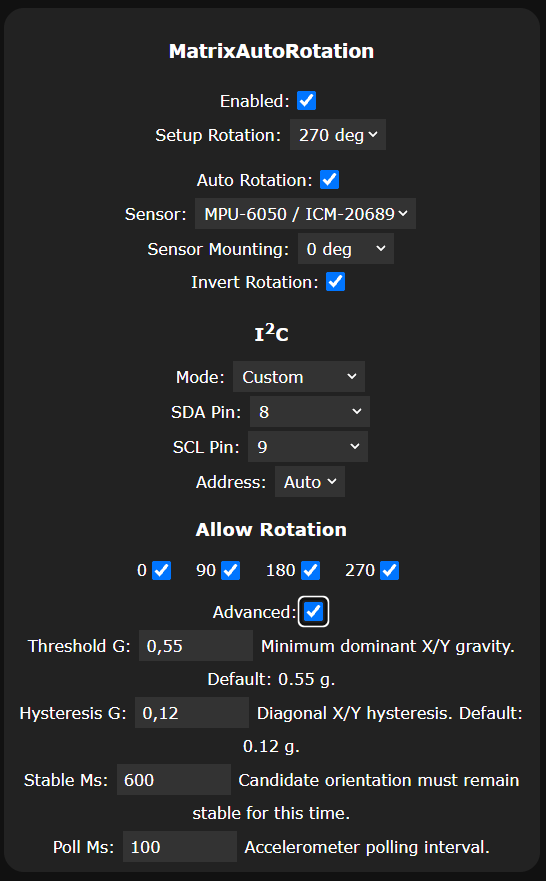
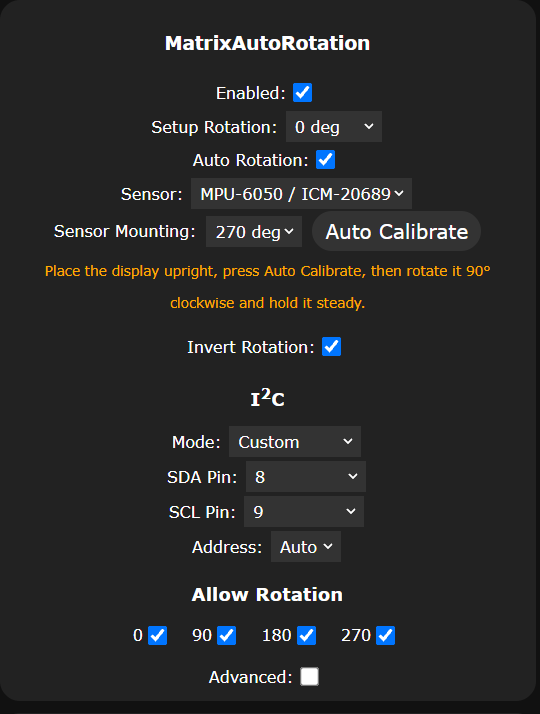
Added 'Auto Calibrate' button

diff --git a/matrix_auto_rotation.cpp b/matrix_auto_rotation.cpp
@@ -7,14 +7,14 @@
 #include "matrix_auto_rotation_sensor.h"
 
 // WLED Matrix Auto Rotation
-// v0.1.0-dev build 12
+// v0.1.0-dev build 13
 //
 // Design rule: the usermod never modifies effect/segment state. Rotation is
 // applied in handleOverlayDraw(), after WLED has composited the final logical
 // raster and immediately before WLED applies its own logical->physical ledmap.
 
 namespace {
-constexpr char MAR_VERSION[] = "0.1.0-dev-b012";
+constexpr char MAR_VERSION[] = "0.1.0-dev-b015";
 constexpr uint8_t I2C_MODE_MATRIXPORTAL = 0;
 constexpr uint8_t I2C_MODE_CUSTOM = 1;
 constexpr uint8_t I2C_MODE_SHARED = 4;
@@ -731,7 +731,20 @@ public:
       "T(N+'enabled','Enabled:');T(N+'setup-rotation','Setup Rotation:');T(N+'auto-rotation','Auto Rotation:');T(N+'sensor','Sensor:');T(N+'sensor-mounting','Sensor Mounting:');T(N+'invert-rotation','Invert Rotation:');"
       "T(N+'i2c:mode','Mode:');T(N+'i2c:SDA-pin','SDA Pin:');T(N+'i2c:SCL-pin','SCL Pin:');T(N+'i2c:address','Address:');"
       "T(N+'advanced','Advanced:');T(N+'advanced-settings:threshold-g','Threshold G:');T(N+'advanced-settings:hysteresis-g','Hysteresis G:');T(N+'advanced-settings:stable-ms','Stable Ms:');T(N+'advanced-settings:poll-ms','Poll Ms:');"
-      "let sr=W(N+'setup-rotation');if(sr)sr.style.marginBottom='12px';"
+      "let sm=W(N+'sensor-mounting'),ir=W(N+'invert-rotation'),calBtn=null,calHelp=null,calRun=false,calPending=false,calStable=false,calHwDirty=false,calBgRaw=-1,calBgSince=0;"
+      "if(sm&&ir){let p=sm.parentNode,g=cE('div'),left=cE('div'),act=cE('div'),sty=cE('style');g.className='mar-cal-grid';act.className='mar-cal-action';g.style.cssText='display:grid;grid-template-columns:minmax(0,1fr) 150px;align-items:center;column-gap:12px;margin:0 auto 4px;max-width:430px';left.style.cssText='min-width:0';act.style.cssText='display:flex;align-items:center;justify-content:center;height:100%';sm.style.cssText+=';margin:0 0 6px';ir.style.cssText+=';margin:0';p.insertBefore(g,sm);left.appendChild(sm);left.appendChild(ir);g.appendChild(left);g.appendChild(act);calBtn=cE('button');calBtn.type='button';calBtn.textContent='Auto Calibrate';calBtn.disabled=true;calBtn.style.cssText='width:auto;padding:5px 10px;margin:0;white-space:nowrap';act.appendChild(calBtn);calHelp=cE('div');calHelp.textContent='Place the display upright, press Auto Calibrate, then rotate it 90° clockwise and hold it steady.';calHelp.style.cssText='font-size:.85em;color:#fa0;text-align:center;margin:6px 8px 12px';g.insertAdjacentElement('afterend',calHelp);sty.textContent='@media(max-width:480px){.mar-cal-grid{grid-template-columns:1fr!important;row-gap:8px}.mar-cal-action{min-height:36px}}';sec.appendChild(sty);}" 
+      "const UI=(j,k)=>j&&j.u&&j.u[k]&&j.u[k][0];"
+      "const V=r=>r==0||r==90||r==180||r==270;"
+      "const GV=(n,f)=>{let e=E(n),v=e?parseFloat(e.value):NaN;return Number.isFinite(v)?v:f;};"
+      "const RS=async()=>{try{let j=await fetch('/json/info',{cache:'no-store'}).then(r=>r.json()),sn=String(UI(j,'MAR sensor')||''),a=String(UI(j,'MAR acceleration')||''),m=a.match(/X\\s+(-?\\d+(?:\\.\\d+)?)\\s+Y\\s+(-?\\d+(?:\\.\\d+)?)/);if(!sn.includes('@ 0x')||!m)return{ready:false,raw:-1};let x=+m[1],y=+m[2],ax=Math.abs(x),ay=Math.abs(y),th=GV(N+'advanced-settings:threshold-g',.55),hy=GV(N+'advanced-settings:hysteresis-g',.12);if(Math.max(ax,ay)<th||Math.abs(ax-ay)<hy)return{ready:true,raw:-1};return{ready:true,raw:ax>=ay?(x>=0?90:270):(y>=0?0:180)};}catch(e){return{ready:false,raw:-1};}};"
+      "const SM=()=>Math.max(0,GV(N+'advanced-settings:stable-ms',600));"
+      "const HS=()=>[N+'sensor',N+'i2c:mode',N+'i2c:SDA-pin',N+'i2c:SCL-pin',N+'i2c:address'].map(n=>{let e=E(n);return e?(e.type=='checkbox'?(e.checked?1:0):e.value):'';}).join('|');"
+      "let hsig=HS();"
+      "const UB=()=>{if(calBtn)calBtn.disabled=calRun||calPending||calHwDirty||!calStable;};"
+      "const BG=async()=>{if(calRun||calPending)return;let s=await RS(),now=Date.now();if(s.ready&&V(s.raw)){if(s.raw!=calBgRaw){calBgRaw=s.raw;calBgSince=now;}calStable=(now-calBgSince)>=SM();}else{calBgRaw=-1;calBgSince=0;calStable=false;}UB();};"
+      "[N+'sensor',N+'i2c:mode',N+'i2c:SDA-pin',N+'i2c:SCL-pin',N+'i2c:address'].forEach(n=>{let e=E(n);if(e)e.addEventListener('change',()=>{calHwDirty=HS()!=hsig;calStable=false;calBgRaw=-1;calBgSince=0;UB();});});"
+      "if(calBtn)calBtn.addEventListener('click',async()=>{let first=await RS();if(calHwDirty||!first.ready||!V(first.raw)){calStable=false;UB();return;}calRun=true;UB();let start=first.raw,cand=-1,since=0,t0=Date.now();calHelp.textContent='Now rotate the display 90° clockwise and hold it steady…';let finish=(ok,msg)=>{calRun=false;if(ok)calPending=true;calHelp.textContent=msg;UB();};let timer=setInterval(async()=>{if(Date.now()-t0>15000){clearInterval(timer);finish(false,'Calibration timed out. Keep the display upright and try again.');return;}let s=await RS();if(!s.ready){clearInterval(timer);finish(false,'Calibration stopped: sensor is no longer available.');return;}let delta=V(s.raw)?((s.raw-start+360)%360):-1;if(delta!=90&&delta!=270){cand=-1;since=0;return;}if(s.raw!=cand){cand=s.raw;since=Date.now();return;}if(Date.now()-since<SM())return;clearInterval(timer);let inv=delta==270,me=E(N+'sensor-mounting'),ie=E(N+'invert-rotation');if(me)me.value=String(start);if(ie)ie.checked=inv;finish(true,'Calibration complete: Sensor Mounting '+start+'°, Invert Rotation '+(inv?'enabled':'disabled')+'. Press Save to apply.');},500);});"
+      "setInterval(BG,1000);setTimeout(BG,150);"
       "let heads=[...sec.querySelectorAll('p>u')];"
       "const H=t=>heads.find(u=>u.textContent.trim().toLowerCase()==t.toLowerCase());"
       "let ih=H('I2c');if(ih){ih.innerHTML='I<sup>2</sup>C';ih.style.cssText='font-weight:700;font-size:1.15em;text-decoration:none';ih.parentElement.style.margin='14px 0 8px';}"

diff --git a/docs/TEST-PLAN.md b/docs/TEST-PLAN.md
@@ -1,4 +1,6 @@
-# v0.1.0-dev-b012 validation plan
+# v0.1.0-dev-b015 validation plan
+
+Current status: b014 Auto Calibrate passed on the current ESP32-C3 + ICM-20689 inverted-face installation. b015 changes only the calibration-block layout.
 
 This plan covers current behavior only. Historical development-build migrations are regression-tested in code/config handling but are intentionally omitted from the user-facing test procedure.
 
@@ -7,14 +9,34 @@ This plan covers current behavior only. Historical development-build migrations 
 Verify:
 
 - normal field labels end with `:`;
-- `Invert Rotation:` appears below `Sensor Mounting:`;
+- `Sensor Mounting:` and `Invert Rotation:` occupy the left column of the calibration block;
+- the button is disabled until the configured sensor is detected and the current orientation is stable;
+- changing Sensor or I²C hardware fields without saving disables the button;
+- `Auto Calibrate` is vertically centered in the right column across those two rows;
+- the upright/90° clockwise instruction appears in orange below the complete calibration block;
 - `I²C` is shown as a section heading;
 - modes are `Matrix Portal`, `Shared`, `Custom`;
 - SDA/SCL/Address appear only for `Custom`;
 - `Advanced:` reveals Threshold G, Hysteresis G, Stable Ms and Poll Ms;
 - `Allow Rotation` displays 0 / 90 / 180 / 270 and prevents an empty allow mask.
 
-## 2. Matrix Portal S3 + LIS3DH regression
+## 2. Auto Calibrate
+
+With the sensor already detected and the display held upright:
+
+1. Wait until `Auto Calibrate` becomes enabled.
+2. Press it; no settings should change yet.
+3. Rotate the display exactly 90° clockwise and hold it steady.
+4. Verify the helper updates `Sensor Mounting` and `Invert Rotation` so the initial upright pose resolves to automatic rotation 0°; `Setup Rotation` must remain unchanged.
+5. Verify the success message asks the user to press the normal WLED Save button.
+6. Repeat with the sensor mounted on the opposite face; `Invert Rotation` should be selected automatically when required.
+7. Start again and do not rotate: after 15 seconds calibration must time out without changing `Sensor Mounting` or `Invert Rotation`.
+8. Disconnect the sensor during calibration: the operation must abort without changing settings.
+9. Change Sensor, I²C mode, SDA/SCL or address without saving: the button must remain disabled until the active hardware configuration matches the page again.
+
+Calibration is intentionally separate from future Sensor Auto Detect: it operates only on an already configured and detected sensor.
+
+## 3. Matrix Portal S3 + LIS3DH regression
 
 Configuration:
 
@@ -36,7 +58,7 @@ Expected:
 Also verify Setup Rotation at 90° composes with automatic rotation rather than replacing it.
 
 
-## 3. Invert Rotation
+## 4. Invert Rotation
 
 With `Setup Rotation = 0°`, `Sensor Mounting = 0°` and all orientations allowed:
 
@@ -49,7 +71,7 @@ With `Setup Rotation = 0°`, `Sensor Mounting = 0°` and all orientations allowe
 
 Verify that enabling/disabling `Invert Rotation` does not alter `Setup Rotation`; the effective rotation must remain `setup + auto (mod 360)`. Also verify persistence across Save + reboot.
 
-## 4. Detection stability
+## 5. Detection stability
 
 Using qualified defaults (0.55 g / 0.12 g / 600 ms / 100 ms):
 
@@ -60,7 +82,7 @@ Using qualified defaults (0.55 g / 0.12 g / 600 ms / 100 ms):
 5. Return upright: detection resumes normally.
 6. Disable one or more orientations and verify disallowed candidates are ignored.
 
-## 5. ICM-20689 on ESP32-C3
+## 6. ICM-20689 on ESP32-C3
 
 Known-qualified device:
 
@@ -74,7 +96,7 @@ Expected WLED Info:
 - non-zero live X/Y/Z values;
 - automatic rotation follows the same four-orientation behavior as LIS3DH after any required `Sensor Mounting` offset.
 
-## 6. Shared I²C coexistence on ESP32-C3
+## 7. Shared I²C coexistence on ESP32-C3
 
 Connect both sensors to the same physical SDA/SCL pair:
 
@@ -91,7 +113,7 @@ Expected:
 - MAR does not change bus pins or clock;
 - a late-initialized shared bus is recovered by MAR's periodic sensor-init retry.
 
-## 7. Custom I²C
+## 8. Custom I²C
 
 On a board/pin pair not already owned by WLED:
 
@@ -103,7 +125,7 @@ On a board/pin pair not already owned by WLED:
 
 On single-controller ESP32 targets, document that Custom rebinds the sole controller; use Shared instead when another component already owns the bus.
 
-## 8. Rectangular matrix guard
+## 9. Rectangular matrix guard
 
 For a non-square matrix:
 
@@ -112,7 +134,7 @@ For a non-square matrix:
 - WLED Info must report the unsupported rotation condition;
 - no crop, resize or geometry mutation is allowed.
 
-## 9. Diagnostics and error paths
+## 10. Diagnostics and error paths
 
 Verify meaningful status for:
 
@@ -124,7 +146,7 @@ Verify meaningful status for:
 
 A failure before `sensor.begin()` must never be displayed as sensor `OK`.
 
-## 10. Pending hardware qualification
+## 11. Pending hardware qualification
 
 A confirmed MPU-6050 device still requires a dedicated hardware pass. Expected IDs are `0x68`/`0x69`; repeat sections 3, 4 and 6 when available.
 
@@ -139,3 +161,11 @@ A confirmed MPU-6050 device still requires a dedicated hardware pass. Expected I
 6. Wait up to 60 seconds without rebooting.
 7. Confirm MAR returns to `sensor ready`, increments `reconnects`, and resumes orientation updates.
 8. Repeat on Shared I²C with another sensor (for example PAJ7620) active; the other device must remain operational.
+
+## b015 calibration layout smoke test
+
+- Confirm `Sensor Mounting` and `Invert Rotation` appear in the left column.
+- Confirm `Auto Calibrate` is centered vertically in the right column across those two rows.
+- Confirm the orange instructions appear below the complete calibration block.
+- Confirm narrow/mobile layout stacks cleanly without horizontal overflow.
+- Confirm button gating and calibration behavior are unchanged from b014.

diff --git a/README.md b/README.md
@@ -1,6 +1,6 @@
 # WLED Matrix Auto Rotation
 
-**Version:** `0.1.0-dev-b012`  
+**Version:** `0.1.0-dev-b015`  
 **Status:** development baseline; LIS3DH, ICM-20689 and Shared I²C hardware-validated
 
 A standalone WLED usermod that automatically rotates the **final 2D matrix raster** according to an accelerometer, without changing effect or segment state.
@@ -9,6 +9,7 @@ A standalone WLED usermod that automatically rotates the **final 2D matrix raste
 
 - 0° / 90° / 180° / 270° automatic matrix rotation.
 - Configurable base (`Setup Rotation`) and sensor mounting rotation.
+- Guided `Auto Calibrate` helper that learns sensor mounting orientation and rotation direction from a 90° clockwise turn, without changing `Setup Rotation`.
 - Optional `Invert Rotation` for sensor boards mounted on the opposite face of the enclosure.
 - Per-orientation allow mask.
 - Threshold, hysteresis, stable time and polling controls under `Advanced`.
@@ -112,9 +113,13 @@ Open **Config → Usermods → MatrixAutoRotation**.
 
 ![Matrix Auto Rotation usermod settings](docs/images/configuration.png)
 
+`Auto Calibrate` appears beside `Sensor Mounting:`. It is enabled only when the already-configured sensor is detected and the current upright orientation is stable. Place the display upright, press the button, then rotate the display **90° clockwise** and hold it steady. MAR determines the required `Sensor Mounting` and whether `Invert Rotation` must be enabled, then updates those two controls. `Setup Rotation` is deliberately left untouched because it is an independent visual raster offset. The normal WLED **Save** button still commits the changes.
+
+If `Sensor`, I²C mode, SDA/SCL or address are changed but not yet saved, `Auto Calibrate` is disabled because the running firmware is still using the previous hardware configuration. Calibration times out after 15 seconds and never changes settings on failure.
+
 `Invert Rotation:` appears directly below `Sensor Mounting:`. The four detection/timing parameters are hidden until `Advanced:` is enabled. `Allow Rotation` controls which quarter-turn orientations may be accepted; at least one orientation is always retained.
 
-The screenshot illustrates the configuration layout. Available I²C modes in the current build are `Matrix Portal`, `Shared` and `Custom`.
+The screenshot shows the hardware-tested b014 calibration controls. b015 only reorganizes the same controls into a two-column calibration block; the screenshot will be refreshed after the b015 UI pass. Available I²C modes are `Matrix Portal`, `Shared` and `Custom`.
 
 ## Rectangular matrices
 
@@ -179,7 +184,8 @@ These fields are intended to make sensor wiring and orientation qualification po
 | Automatic rotation | ESP32-C3 + ICM-20689 | PASS |
 | Custom I²C on single-controller ESP32 | ESP32-C3 | PASS |
 | Shared I²C coexistence | ESP32-C3 + PAJ7620 + ICM-20689 | PASS |
-| Runtime disconnect/reconnect recovery | — | Pending b012 hardware regression |
+| Runtime disconnect/reconnect recovery | — | Pending hardware regression |
+| Auto Calibrate mounting + direction | ESP32-C3 + ICM-20689, current inverted-face installation | PASS |
 | MPU-6050-specific hardware | — | Pending |
 
 ## Known limitations

diff --git a/CHANGELOG.md b/CHANGELOG.md
@@ -1,5 +1,34 @@
 # Changelog
 
+## 0.1.0-dev-b015
+
+- Reworked only the `Auto Calibrate` presentation; calibration and runtime behavior are unchanged from b014.
+- Grouped `Sensor Mounting` and `Invert Rotation` in the left column of a dedicated calibration block.
+- Moved the `Auto Calibrate` button to a right-hand column, vertically centered across those two sensor-installation controls.
+- Kept the WLED-style orange calibration instructions below the full two-column block.
+- Added a narrow-screen fallback that stacks the button below the two sensor-installation rows.
+- Recorded the b014 Auto Calibrate hardware pass on the current ESP32-C3 + ICM-20689 installation; runtime disconnect/reconnect qualification remains pending.
+
+## 0.1.0-dev-b014
+
+- Corrected the conceptual target of `Auto Calibrate`: it now calibrates `Sensor Mounting` and `Invert Rotation`, not `Setup Rotation`.
+- Moved `Auto Calibrate` beside `Sensor Mounting` in the usermod UI.
+- `Setup Rotation` is now explicitly untouched by calibration because it is an independent final-raster visual offset.
+- The first stable upright pose becomes the calibrated `Sensor Mounting`; the following stable 90° clockwise turn determines `Invert Rotation`.
+- Changed the calibration helper note to WLED-style orange.
+- Kept the existing detected-sensor/stable-pose gating, unsaved-hardware-change protection, 15-second timeout, transactional failure behavior, and explicit Save requirement.
+
+## 0.1.0-dev-b013
+
+- Added guided `Auto Calibrate` beside `Setup Rotation`.
+- The control is enabled only when the configured sensor is detected and the current pose is stable.
+- Calibration captures the upright pose, asks for a 90° clockwise turn, and derives both `Setup Rotation` and `Invert Rotation`.
+- Calibration reads live runtime sensor data from WLED Info, so it does not require a new persistent calibration state or a custom HTTP endpoint.
+- Unsaved Sensor/I²C hardware changes disable calibration because the running firmware is still using the previous bus configuration.
+- A 15-second timeout or sensor loss aborts calibration transactionally without changing settings.
+- Successful calibration updates the UI only; the normal WLED Save action remains responsible for persistence.
+- Sensor Auto Detect remains deferred to 0.2.0.
+
 ## 0.1.0-dev-b012
 
 - Added runtime sensor disconnect detection after 3 consecutive failed reads.

diff --git a/docs/TODO.md b/docs/TODO.md
@@ -2,7 +2,9 @@
 
 ## Before 0.1.0 final
 
-- Hardware-regression-test b012 runtime disconnect/reconnect recovery on LIS3DH and ICM-20689.
+- Hardware-regression-test runtime disconnect/reconnect recovery on LIS3DH and ICM-20689.
+- Complete the remaining `Auto Calibrate` regression on a normal-face sensor installation; the current inverted-face ESP32-C3 + ICM-20689 installation has passed and `Setup Rotation` remained untouched.
+- Hardware-smoke-test the b015 two-column calibration layout on desktop and a narrow/mobile viewport.
 - Verify Shared I²C recovery while PAJ7620 remains active on the same bus.
 - Re-run the 0/90/180/270, Setup Rotation and Invert Rotation regression matrix.
 - Static audit and documentation consistency pass before the first release candidate.
@@ -10,8 +12,6 @@
 ## 0.2.0 candidates
 
 - **Sensor Auto Detect** after the I²C bus/board/pins have already been configured. Keep bus selection and sensor detection as separate concepts.
-- **Setup Rotation helper** available only when a sensor has already been detected and a valid/stable orientation exists. A static detect can determine the relative zero only.
-- **Guided full calibration** if desired: first capture the zero position, then ask the user to rotate the matrix by 90 degrees in a known direction so the software can also determine rotation sense / Invert Rotation.
 - Optional explicit sensor address selection in Shared mode for installations containing multiple compatible devices.
 - Add new accelerometer backends as hardware becomes available, without changing the common orientation engine.
 
